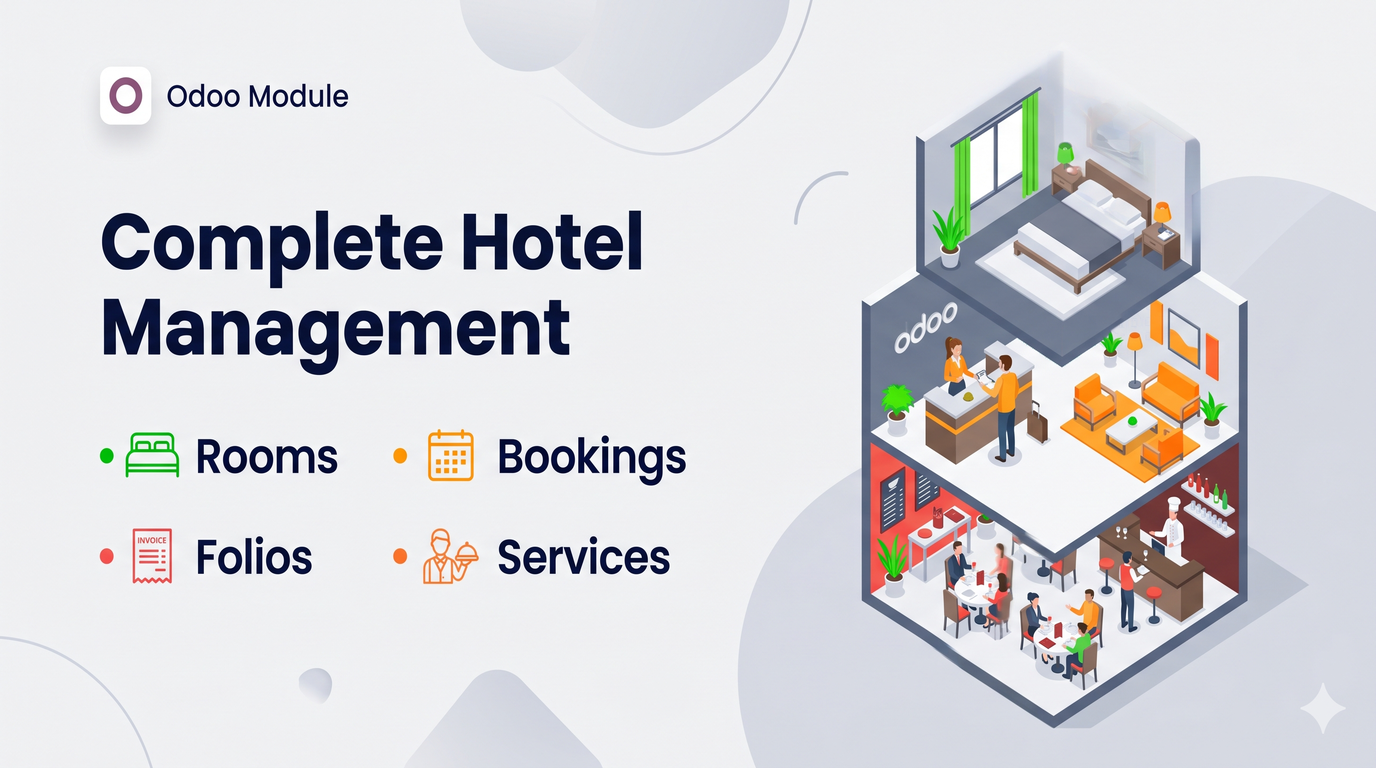
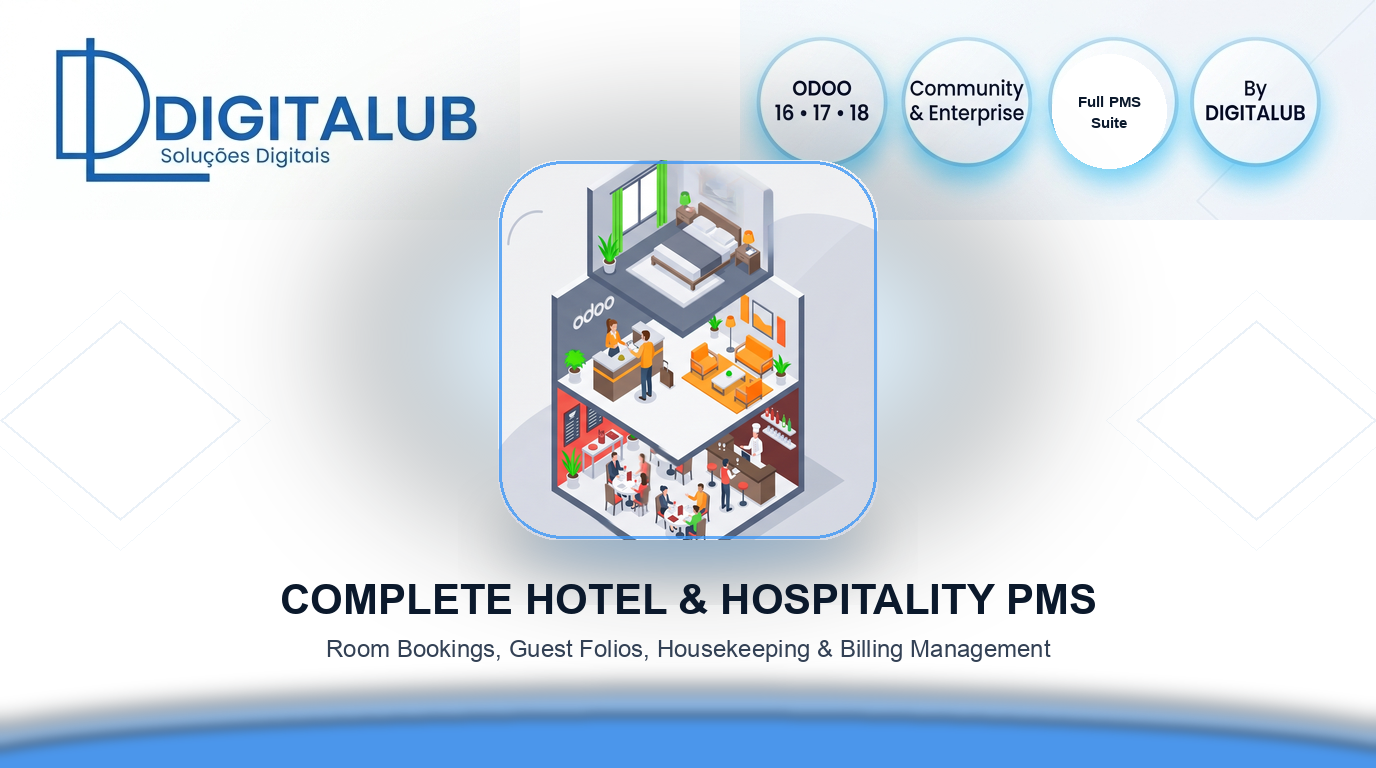
feat: apply Digitalub Master Visual Rebranding & Pricing Strategy

diff --git a/dl_hotel_management/static/description/index.html b/dl_hotel_management/static/description/index.html
@@ -623,6 +623,10 @@
 <body>
 
 <div class="digitalub-wrapper">
+<div style="text-align: center; margin: 20px auto 35px auto; max-width: 1200px;">
+    <img src="banner.png" alt="Official Banner" style="width: 100%; border-radius: 12px; box-shadow: 0 10px 30px rgba(0,0,0,0.08);" />
+</div>
+
     <!-- Header / Hero Section -->
     <header class="digitalub-header">
         <div class="digitalub-badge-container">

diff --git a/dl_hotel_management/__manifest__.py b/dl_hotel_management/__manifest__.py
@@ -1,9 +1,9 @@
 # -*- coding: utf-8 -*-
 {
-    'name': 'Hotel Management System - Complete Hospitality PMS Suite',
-    'version': '17.0.1.0.2',
+    'name': 'Complete Hotel & Hospitality Management PMS',
+    'version': '17.0.1.0.3',
     'category': 'Industries',
-    'summary': 'All-in-One Hotel PMS: Room Bookings, Folio Billing, Interactive Occupancy Matrix, Housekeeping, Restaurant & Laundry',
+    'summary': 'All-in-One Hotel PMS: Room Bookings, Guest Folios, Housekeeping, Dining & Billing Management',
     'description': """
         Enterprise Hotel Management System (PMS) for Odoo 17.
         Key Features:
@@ -20,7 +20,7 @@
     'license': 'OPL-1',
 
     # Configuração de Preço Comercial Recomendado
-    'price': 650.00,
+    'price': 460.0,
     'currency': 'EUR',
 
     # Dependências do módulo
